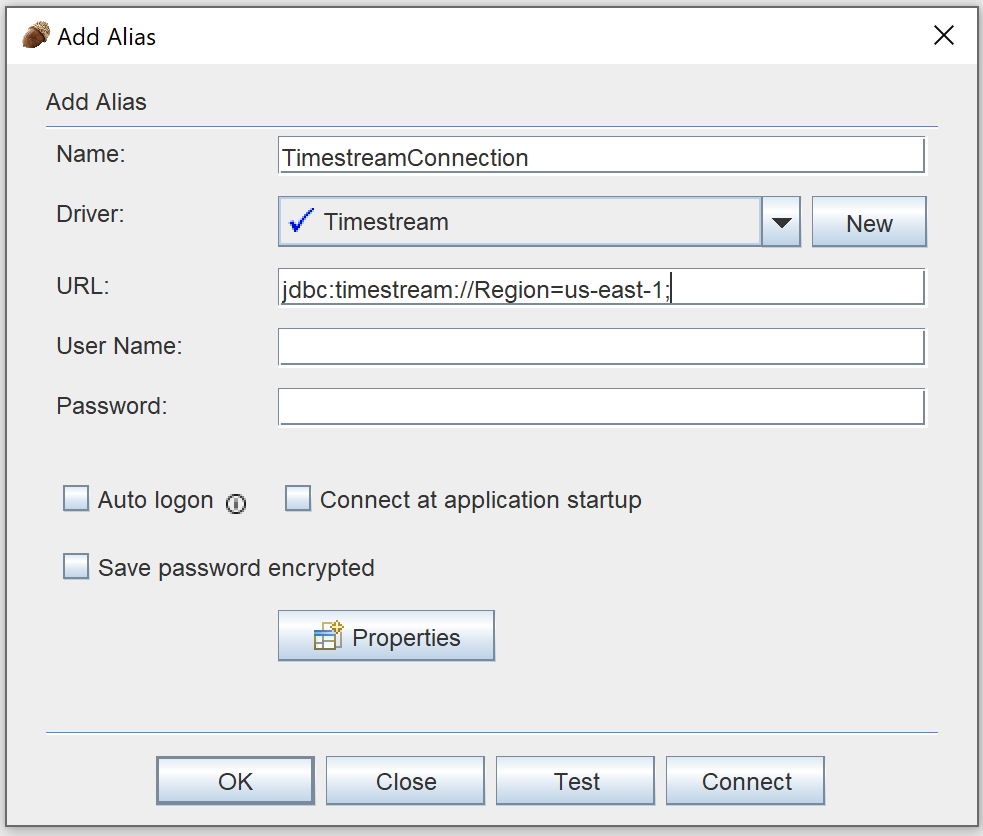
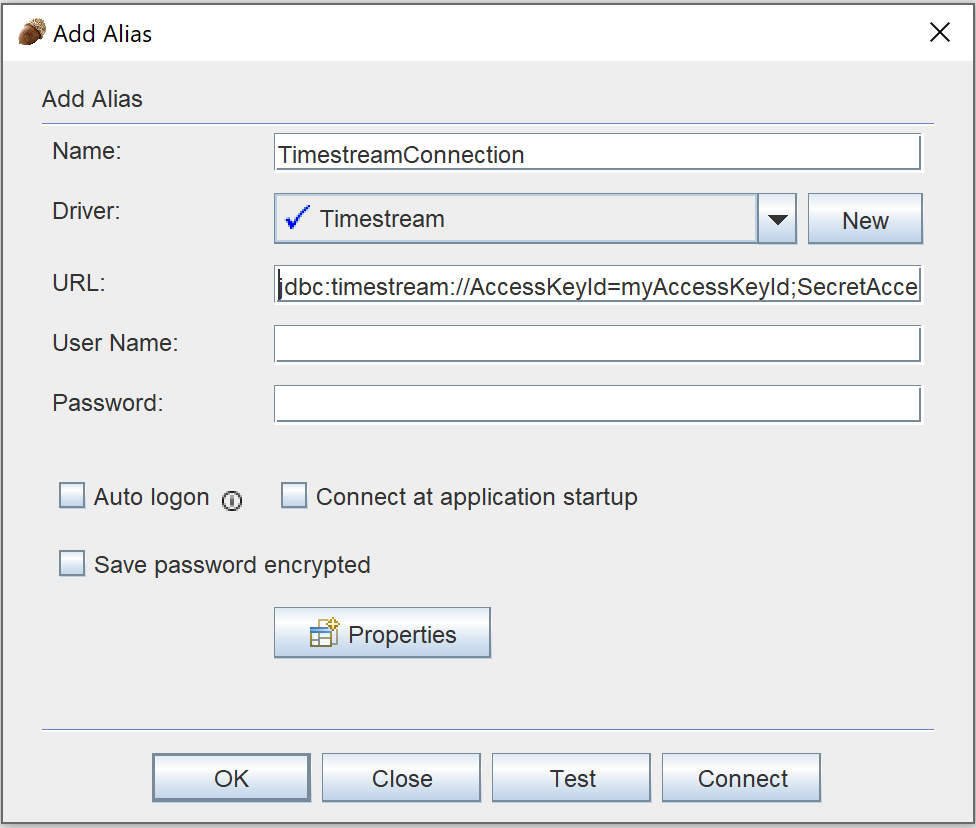
rework based on comments

diff --git a/markdown/setup/squirrel-driver-setup.md b/markdown/setup/squirrel-driver-setup.md
@@ -13,7 +13,7 @@
     ![Example](../images/squirrel/squirrel2.png)
 
 4. For the **Name:** field, enter **Timestream**.
-5. For the **Example JDBC URL:** field, enter `jdbc:timestream://Region=<region>;`
+5. For the **Example JDBC URL:** field, enter `jdbc:timestream://AccessKeyId=<myAccessKeyId>;SecretAccessKey=<mySecretAccessKey>;SessionToken=<mySessionToken>;Region=<myRegion>;`
 6. Select the **JDBC Driver Class Path** tab.
 7. Click the **Add** button and navigate to the downloaded Amazon Timestream JDBC driver JAR file.
 8. Click **OK** to add the JAR file to the **JDBC Driver Class Path**.
@@ -38,13 +38,11 @@
     
     b. For the **Driver:** field, ensure **Timestream** is selected.
 
-    c. For the **URL:** field, enter your JDBC connection string. For example, `jdbc:timestream://Region=us-east-1;`
+    c. For the **URL:** field, enter your JDBC connection string. For example, `jdbc:timestream://AccessKeyId=myAccessKeyId;SecretAccessKey=mySecretAccessKey;Region=us-east-1;`. For a list of connection properties (e.g., Access Key, Secret Key, etc.), see [README](../../README.md#optional-connection-properties)
+
+    d. Do **NOT** use the **"User Name:"** and **"Password:"** fields to fill credentials, they could not work.
 
     ![Example](../images/squirrel/squirrel5.png)
-
-    d. For the User **User Name:** field, enter your Amazon Timestream account ID.
-    
-    e. For the **Password:** field, enter the corresponding password for the acount ID.
 
 5. Click **OK** to save the alias.
 6. Double-click your alias to start the connection dialog.
